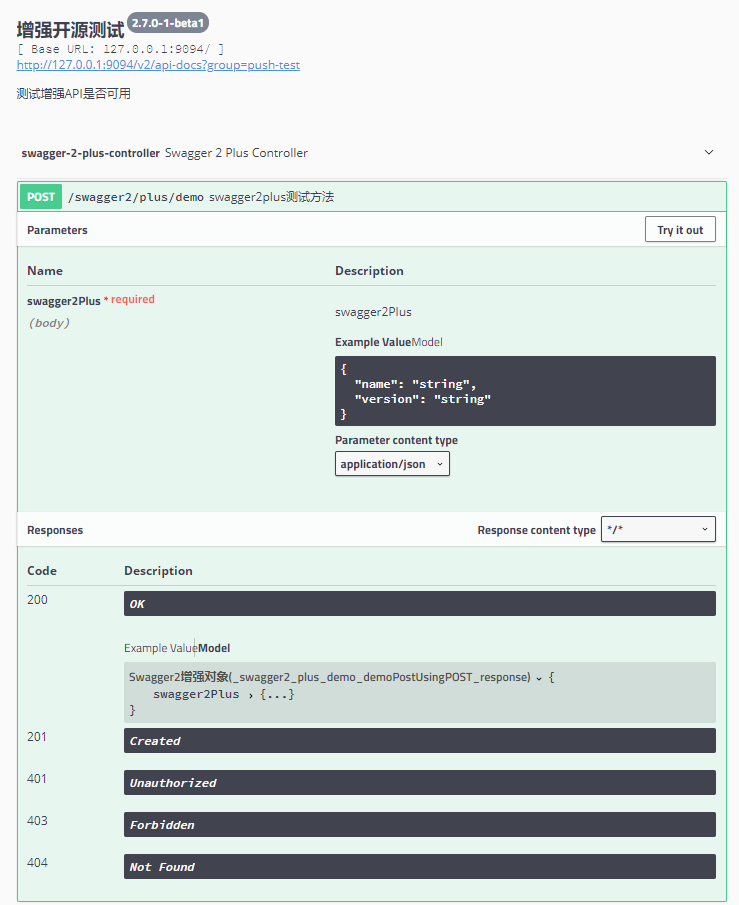
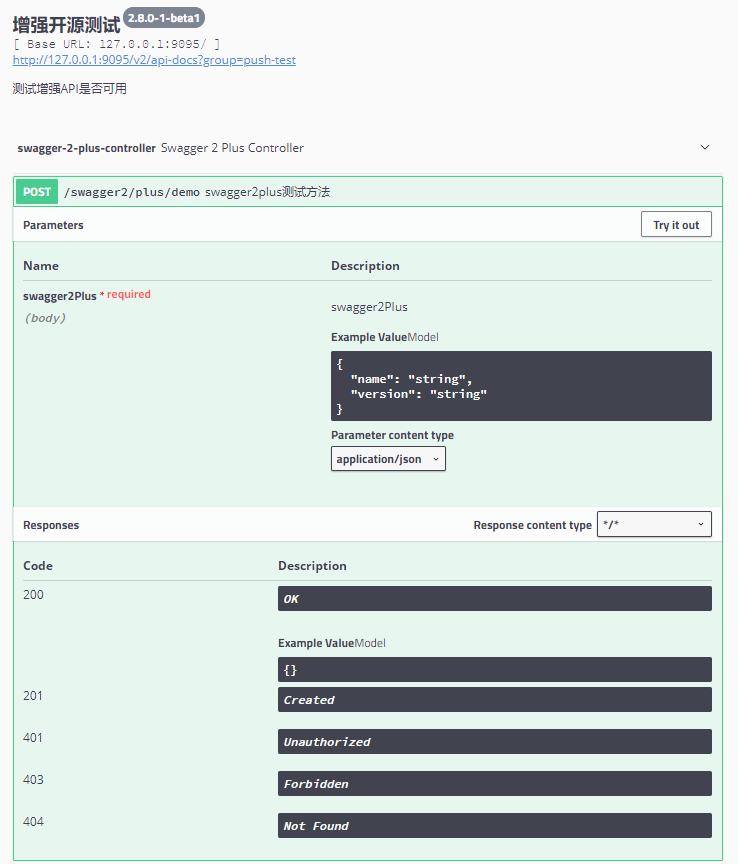
增加swagger2 2.9.1版本的支持

diff --git a/src/main/java/cn/weiguangfu/swagger2/plus/plus/DefaultSwagger2Push.java b/src/main/java/cn/weiguangfu/swagger2/plus/plus/DefaultSwagger2Push.java
@@ -180,6 +180,7 @@ public class DefaultSwagger2Push implements Swagger2Push {
                 parameter.getDefaultValue(),
                 parameter.isRequired(),
                 parameter.isAllowMultiple(),
+                parameter.isAllowEmptyValue(),
                 enhanceModelReference(enhanceParameter, ApiModelTypeEnum.REQUEST, parameter.getModelRef()),
                 parameter.getType(),
                 parameter.getAllowableValues(),
@@ -188,6 +189,9 @@ public class DefaultSwagger2Push implements Swagger2Push {
                 parameter.isHidden(),
                 parameter.getPattern(),
                 parameter.getCollectionFormat(),
+                parameter.getOrder(),
+                parameter.getScalarExample(),
+                parameter.getExamples(),
                 parameter.getVendorExtentions());
     }
 

diff --git a/README.md b/README.md
@@ -3,8 +3,8 @@
 作者: 魏广甫 
 
 
-[![Build Status](https://travis-ci.org/weiguangfu/springfox-swagger2-plus.svg?branch=2.8.0-1-beta1)](https://travis-ci.org/weiguangfu/springfox-swagger2-plus)
-[![Maven central](https://maven-badges.herokuapp.com/maven-central/cn.weiguangfu/springfox-swagger2-plus/badge.svg)](https://search.maven.org/artifact/cn.weiguangfu/springfox-swagger2-plus/2.8.0-1-beta1/jar)
+[![Build Status](https://travis-ci.org/weiguangfu/springfox-swagger2-plus.svg?branch=2.9.1-1-beta1)](https://travis-ci.org/weiguangfu/springfox-swagger2-plus)
+[![Maven central](https://maven-badges.herokuapp.com/maven-central/cn.weiguangfu/springfox-swagger2-plus/badge.svg)](https://search.maven.org/artifact/cn.weiguangfu/springfox-swagger2-plus/2.9.1-1-beta1/jar)
 [![License](http://img.shields.io/:license-apache-brightgreen.svg)](http://www.apache.org/licenses/LICENSE-2.0.html)
 
 作者邮箱: weiguangfu520@163.com
@@ -18,7 +18,7 @@
 <dependency>
    <groupId>cn.weiguangfu</groupId>
    <artifactId>springfox-swagger2-plus</artifactId>
-   <version>2.8.0-1-beta1</version>
+   <version>2.9.1-1-beta1</version>
 </dependency>
 ```
 
@@ -38,7 +38,7 @@ public class Swagger2Config {
                         .title("增强开源测试")
                         .description("测试增强API是否可用")
                         .termsOfServiceUrl("")
-                        .version("2.8.0-1-beta1")
+                        .version("2.9.1-1-beta1")
                         .build())
                 .directModelSubstitute(Byte.class, Integer.class)
                 .select()
